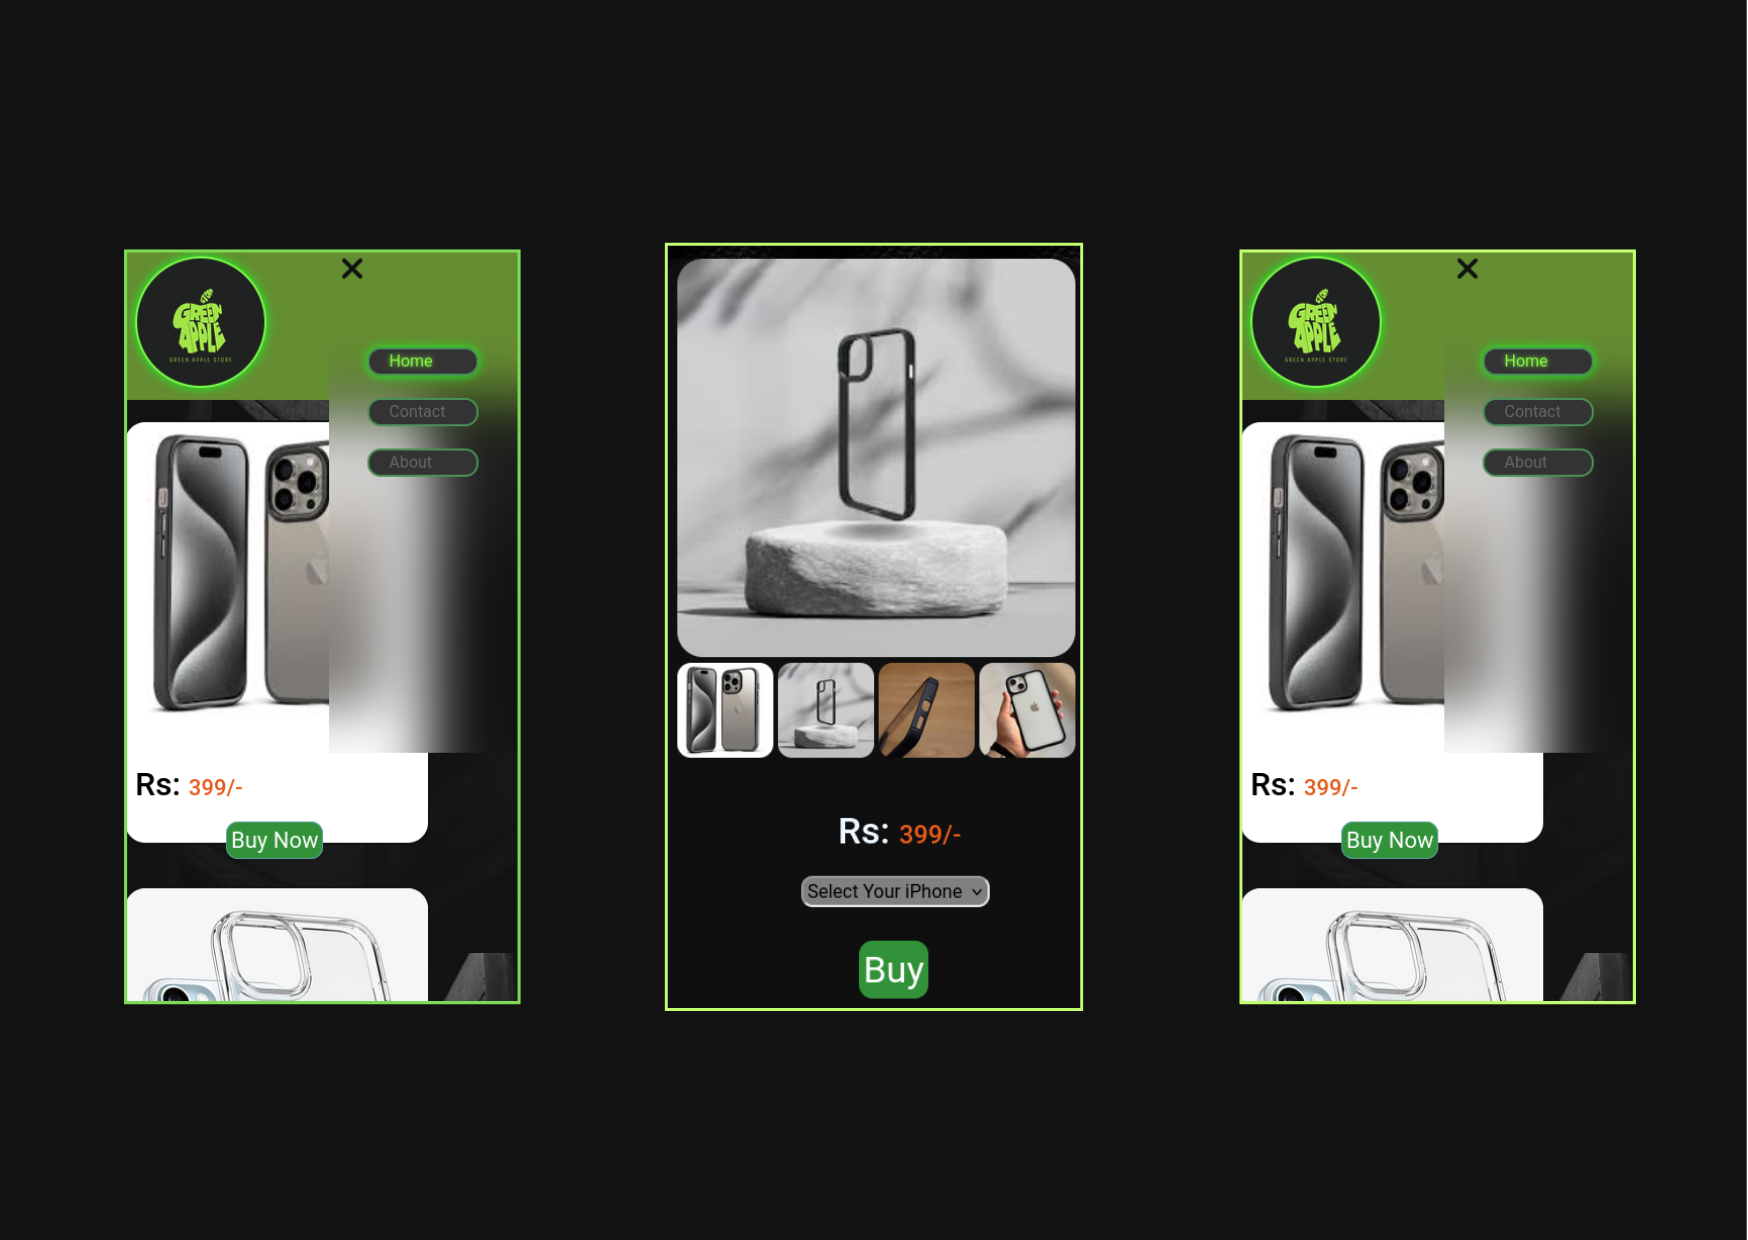
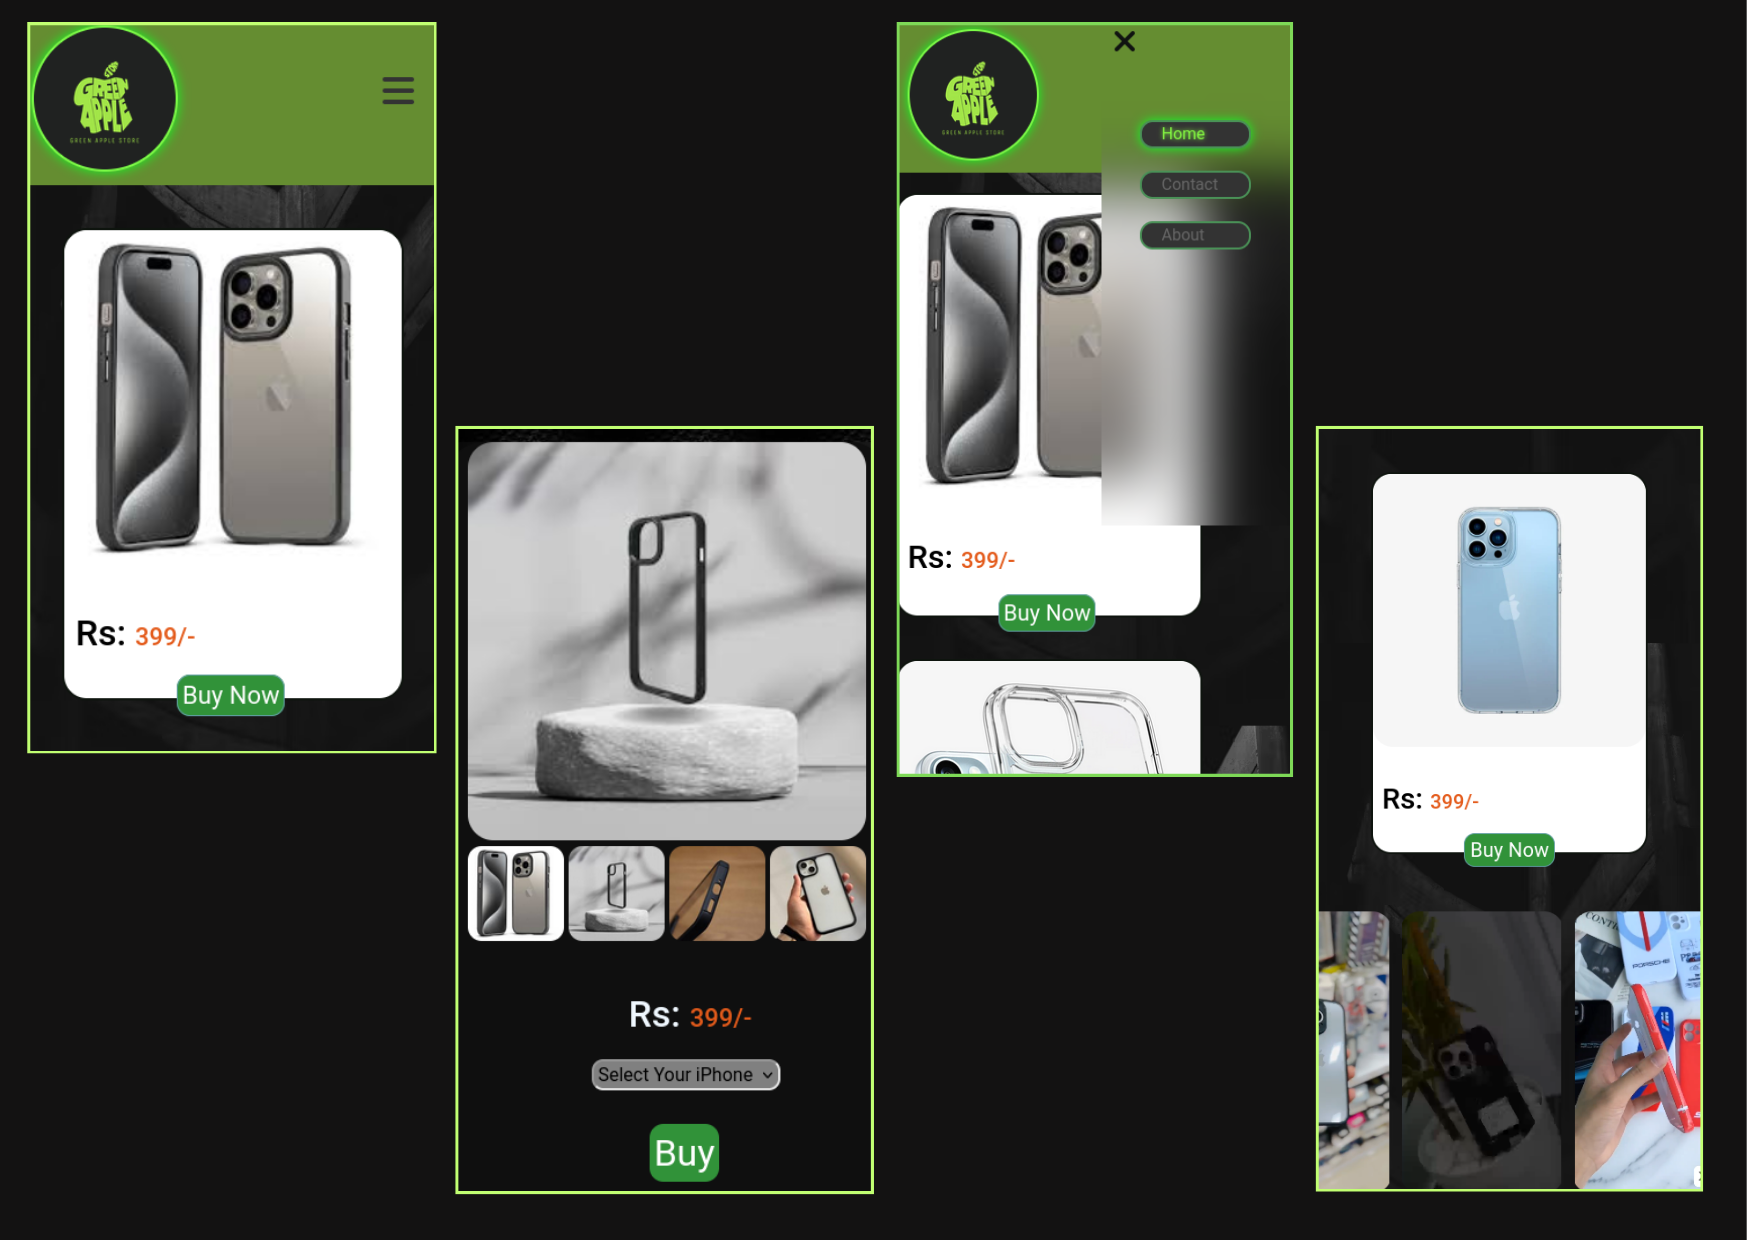
photo added

diff --git a/index.html b/index.html
@@ -83,6 +83,70 @@
               
            </div>
 
+
+
+
+           <div class="image-container">
+            <img id="imgg" src="/images/products/c-0.png" alt="#">
+
+            <h2 id="rs"> <br>Rs: <a id="price" href="#">399/-</a></h2>
+
+              <button class="buynow-btn">Buy Now</button>
+              
+           </div>
+
+
+
+           
+           <div class="image-container">
+            <img id="imgg" src="images/products/c-01.jpg" alt="#">
+
+            <h2 id="rs"> <br>Rs: <a id="price" href="#">399/-</a></h2>
+
+              <button class="buynow-btn">Buy Now</button>
+              
+           </div>
+
+
+
+
+
+           <div class="image-container">
+            <img id="imgg" src="images/products/c-02.jpg" alt="#">
+
+            <h2 id="rs"> <br>Rs: <a id="price" href="#">399/-</a></h2>
+
+              <button class="buynow-btn">Buy Now</button>
+              
+           </div>
+
+
+
+
+
+           <div class="image-container">
+            <img id="imgg" src="images/products/c-03.png" alt="#">
+
+            <h2 id="rs"> <br>Rs: <a id="price" href="#">399/-</a></h2>
+
+              <button class="buynow-btn">Buy Now</button>
+              
+           </div>
+
+
+
+
+
+           <div class="image-container">
+            <img id="imgg" src="images/products/c-04.png" alt="#">
+
+            <h2 id="rs"> <br>Rs: <a id="price" href="#">399/-</a></h2>
+
+              <button class="buynow-btn">Buy Now</button>
+              
+           </div>
+
+
       </div>
 
     </section>

diff --git a/style.css b/style.css
@@ -4,13 +4,9 @@
 
 
 
-
-
 body{
-    background: url(images/back.avif);
+    background-color: #4a9157;
 }
-
-
 
 
 
